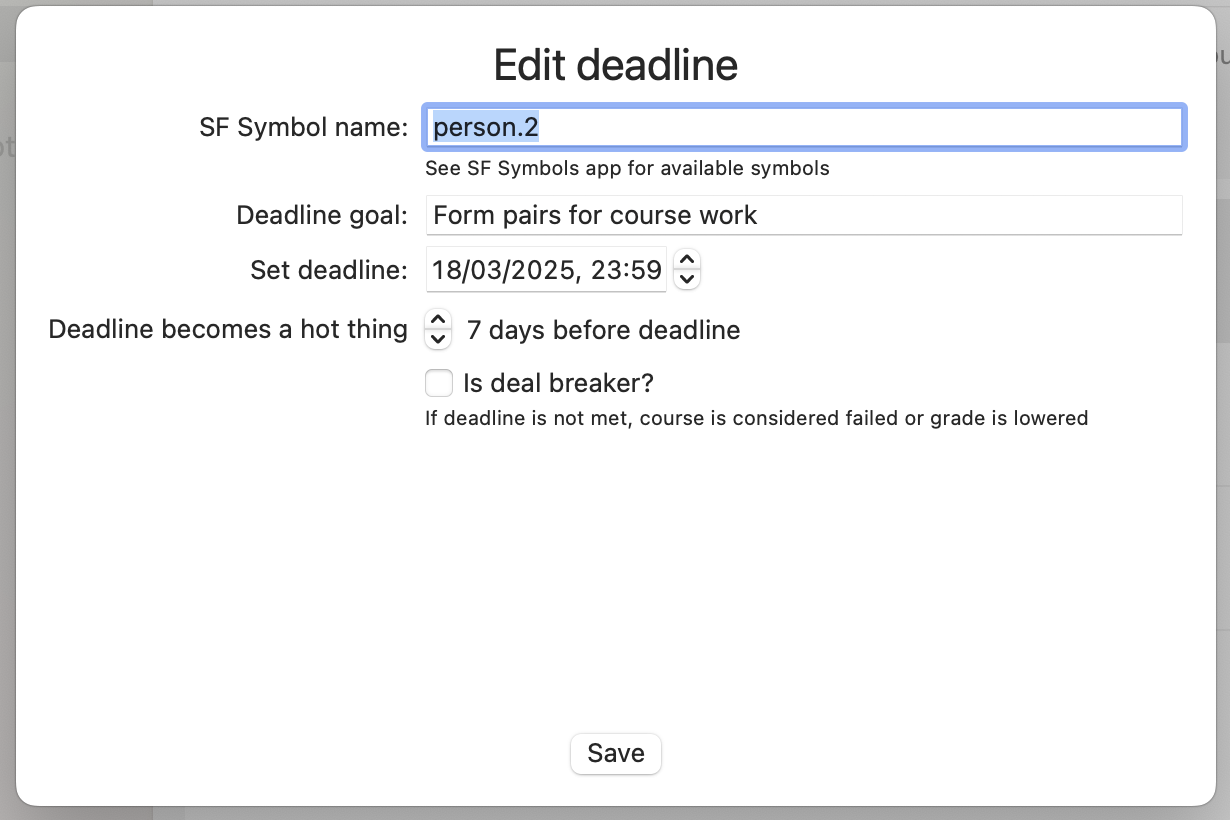
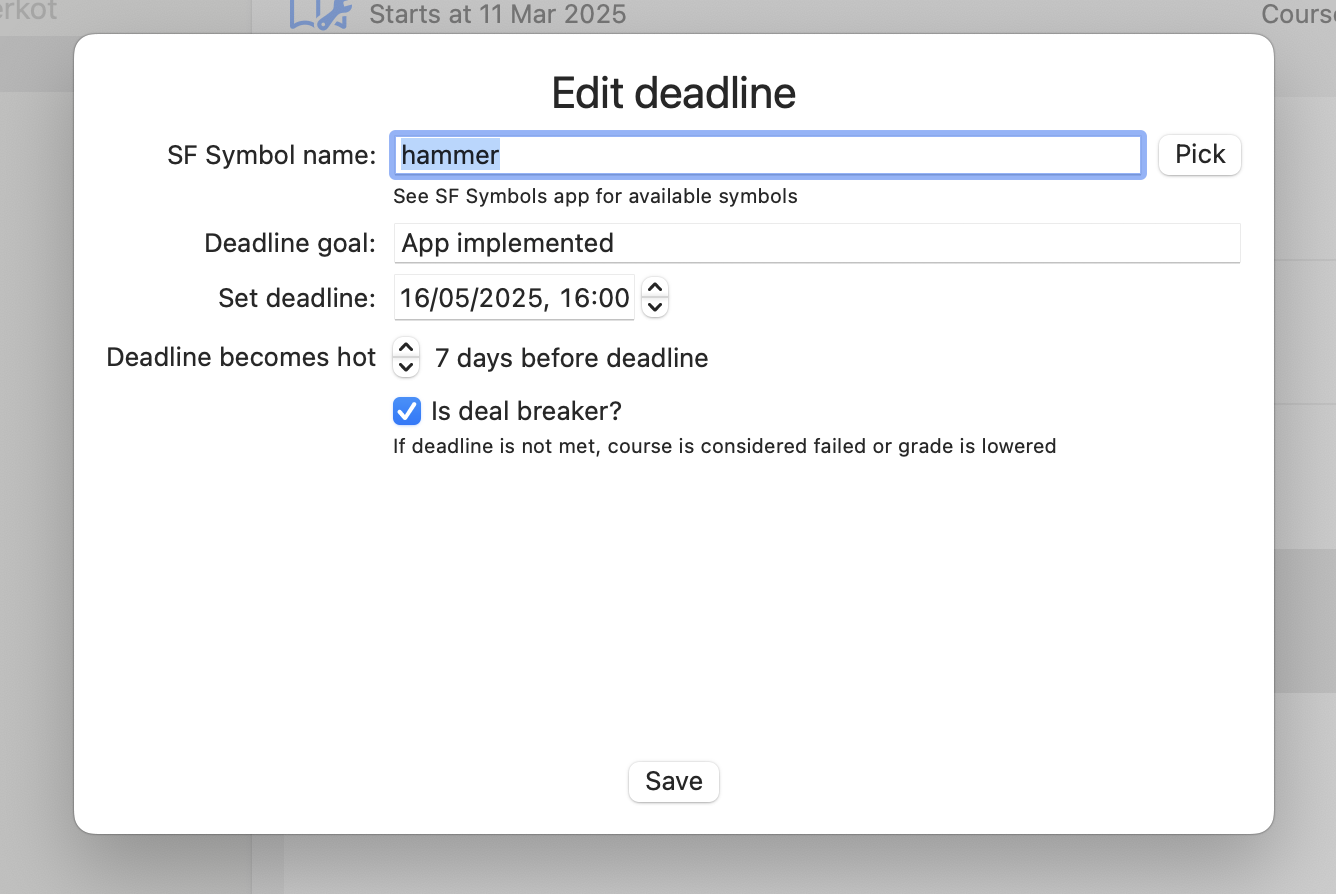
New pick symbol feature in deadline editing: - user can pick a symbol for the deadline from preselected symbols - removed button style not used anywhere - updated readme and screenshots

Changed region(s): [[0.0, 0.0, 1.0, 1.0]]

diff --git a/CourseDeadlineCounter/View/SymbolPickerView.swift b/CourseDeadlineCounter/View/SymbolPickerView.swift
@@ -1,0 +1,75 @@
+//
+//  SymbolPickerView.swift
+//  CourseDeadlineCounter
+//
+//  Created by Antti Juustila on 14.5.2025.
+//
+import SwiftUI
+
+struct SymbolPickerView: View {
+	@Environment(\.dismiss) var dismiss
+
+	@Binding var symbolName: String
+	@State private var selectedSymbol: String = "hammer"
+	let symbolNames = [
+		"hammer",
+		"pencil.and.list.clipboard",
+		"checkmark.seal",
+		"person",
+		"person.2",
+		"person.3",
+		"square.and.arrow.up.badge.clock",
+		"book.pages",
+		"studentdesk",
+		"building.columns",
+		"signpost.right.and.left",
+		"paperplane",
+		"play.display",
+		"questionmark.bubble",
+		"puzzlepiece.extension",
+		"tray.and.arrow.down",
+		"pencil.and.ruler",
+		"graduationcap",
+		"trophy"
+	]
+	
+	var body: some View {
+		VStack {
+			Form {
+				TextField("Symbol name", text: $symbolName)
+				Text("Enter a symbol name or pick one from below")
+					.font(.caption)
+				Picker("Select a symbol", selection: $selectedSymbol, content: {
+					ForEach(symbolNames, id: \.self) { symbolName in
+						HStack {
+							Image(systemName: symbolName)
+								.font(.largeTitle)
+								.tag(symbolName)
+							Text(symbolName)
+						}
+					}
+				}, currentValueLabel: {
+					Image(systemName: selectedSymbol)
+				})
+				.onChange(of: selectedSymbol) { oldValue, newValue in
+					symbolName = newValue
+				}
+			}
+			.padding()
+			Spacer()
+			Button("Close") {
+				dismiss()
+			}
+		}
+		.padding()
+		.onAppear() {
+			if symbolNames.contains(symbolName) {
+				selectedSymbol = symbolName
+			}
+		}
+	}
+}
+#Preview {
+	@Previewable @State var symbolName = ""
+	SymbolPickerView(symbolName: $symbolName)
+}

diff --git a/CourseDeadlineCounter/View/DeadlineEditView.swift b/CourseDeadlineCounter/View/DeadlineEditView.swift
@@ -15,7 +15,7 @@ struct DeadlineEditView: View {
 	
 	@Environment(\.dismiss) var dismiss
 	
-	@State var editSymbolName: String = ""
+	@State var editSymbolName: String = "hammer"
 	@State var editDeadlineGoal: String = ""
 	@State var editDeadline: Date = .now
 	@State var editDaysComesHot: Int = 14
@@ -23,6 +23,8 @@ struct DeadlineEditView: View {
 	
 	@State var isError: Bool = false
 	@State var errorMessage: String = ""
+	
+	@State var showSymbolPickerView: Bool = false
 	
 	let hotDaysRange = 1...30 // alert range 1...30 days before deadline
 	let step = 1
@@ -46,7 +48,15 @@ struct DeadlineEditView: View {
 			Text("Edit deadline")
 				.font(.title)
 			Form {
-				TextField("SF Symbol name:", text: $editSymbolName)
+				HStack {
+					TextField("SF Symbol name:", text: $editSymbolName)
+					Button("Pick") {
+						showSymbolPickerView.toggle()
+					}
+					.sheet(isPresented: $showSymbolPickerView) {
+						SymbolPickerView(symbolName: $editSymbolName)
+					}
+				}
 				Text("See SF Symbols app for available symbols")
 					.font(.caption)
 				TextField("Deadline goal:", text: $editDeadlineGoal)
